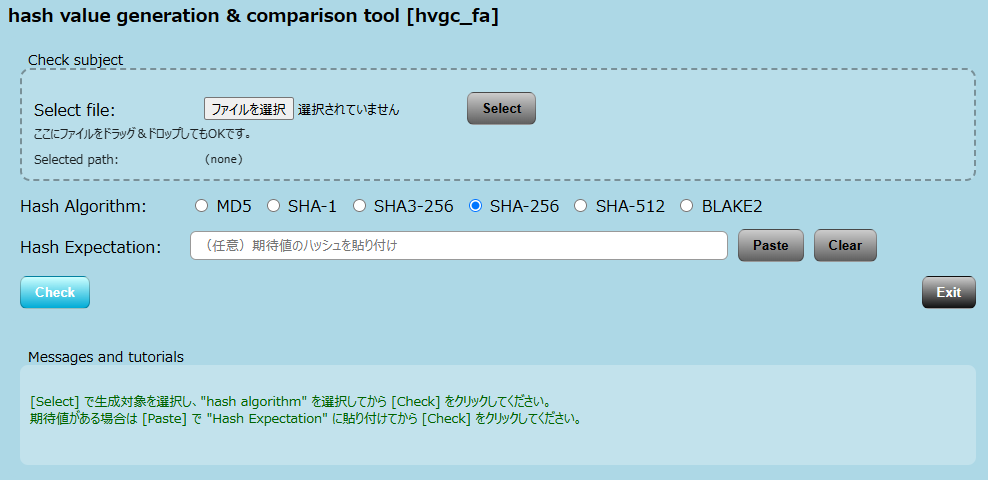
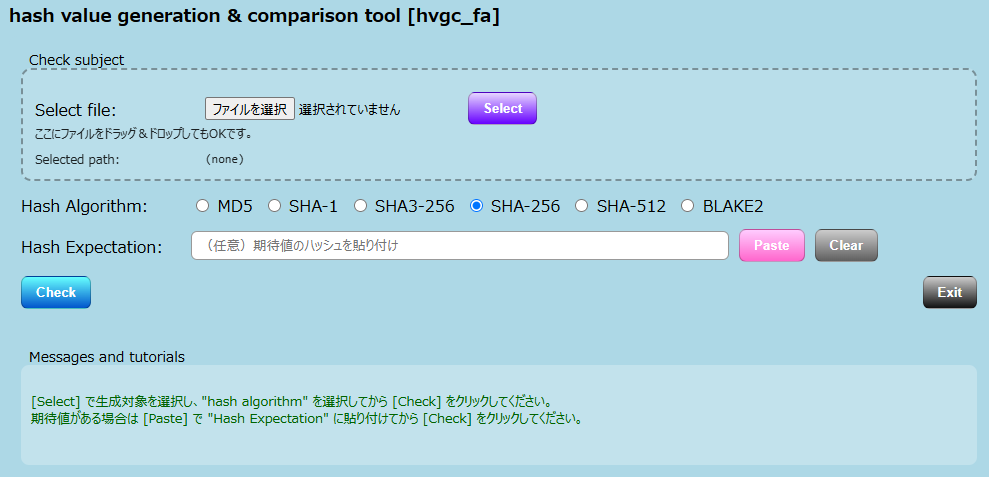
Environment update

diff --git a/templates/index.html b/templates/index.html
@@ -103,12 +103,25 @@
           filter: brightness(1.08);
       }
       
-      /* Check : Cyan */
+
+      /* Check : purple */
+      .gbtn.select{
+          color: white;
+          background: linear-gradient(to bottom, #E6D5FF, #6600FF);
+      }
+
+      /* Check : Blue */
       .gbtn.check{
           color: white;
-          background: linear-gradient(to bottom, #CCFFFF, #00ABD6);
+          background: linear-gradient(to bottom, #66FFFF, #0055CC);
+        "start"   : ["66","FF","FF", "00","55","CC"],       # Blue
       }
       
+      /* Check : Magenta */
+      .gbtn.paste{
+          color: white;
+          background: linear-gradient(to bottom, #FFCCFF, #FF66CC);
+      }
       /* Exit : Black */
       .gbtn.exit{
           color: white;
@@ -116,8 +129,8 @@
       }
       
       /* Other : Gray */
-      .gbtn.sub{
-          color: black;
+      .gbtn.clear{
+          color: white;
           background: linear-gradient(to bottom, #CCCCCC, #5F5F5F);
       }
 
@@ -182,7 +195,7 @@
         <div class="row">
           <div class="label">Select file:</div>
             <input id="file" type="file" name="file" required>
-		    <button class="gbtn sub" type="button" id="btnSelect">Select</button>
+		    <button class="gbtn select" type="button" id="btnSelect">Select</button>
           </div>
           <div class="small">ここにファイルをドラッグ＆ドロップしてもOKです。</div>
           <div class="row small">
@@ -204,8 +217,8 @@
       <div class="row" style="margin-top: 14px;">
           <div class="label">Hash Expectation:</div>
           <input id="expected" type="text" name="expected" placeholder="（任意）期待値のハッシュを貼り付け">
-          <button class="gbtn sub" type="button" id="btnPaste">Paste</button>
-		  <button class="gbtn sub" type="button" id="btnClear">Clear</button>
+          <button class="gbtn paste" type="button" id="btnPaste">Paste</button>
+		  <button class="gbtn clear" type="button" id="btnClear">Clear</button>
         </div>
 
       <div class="row" style="margin-top: 14px;">

diff --git a/README.md b/README.md
@@ -53,9 +53,8 @@
 >|:--|:--|:--:|  
 >|Check subject |Hash生成対象ファイル|In|  
 >|Hash Expectation |Hash期待値|In|  
->|Generated Hash |生成Hash Key|Out|  
->|Messages and tutorials |処理メッセージ及び操作方法|Out|  
-### Buttons and Checkboxes
+>|Messages and tutorials |Hash値 及び メッセージ / 操作方法|Out|  
+### Buttons  
 >| Button | Description |  
 >|:--|:--|  
 >|Select|Hash生成対象ファイル選択|  
